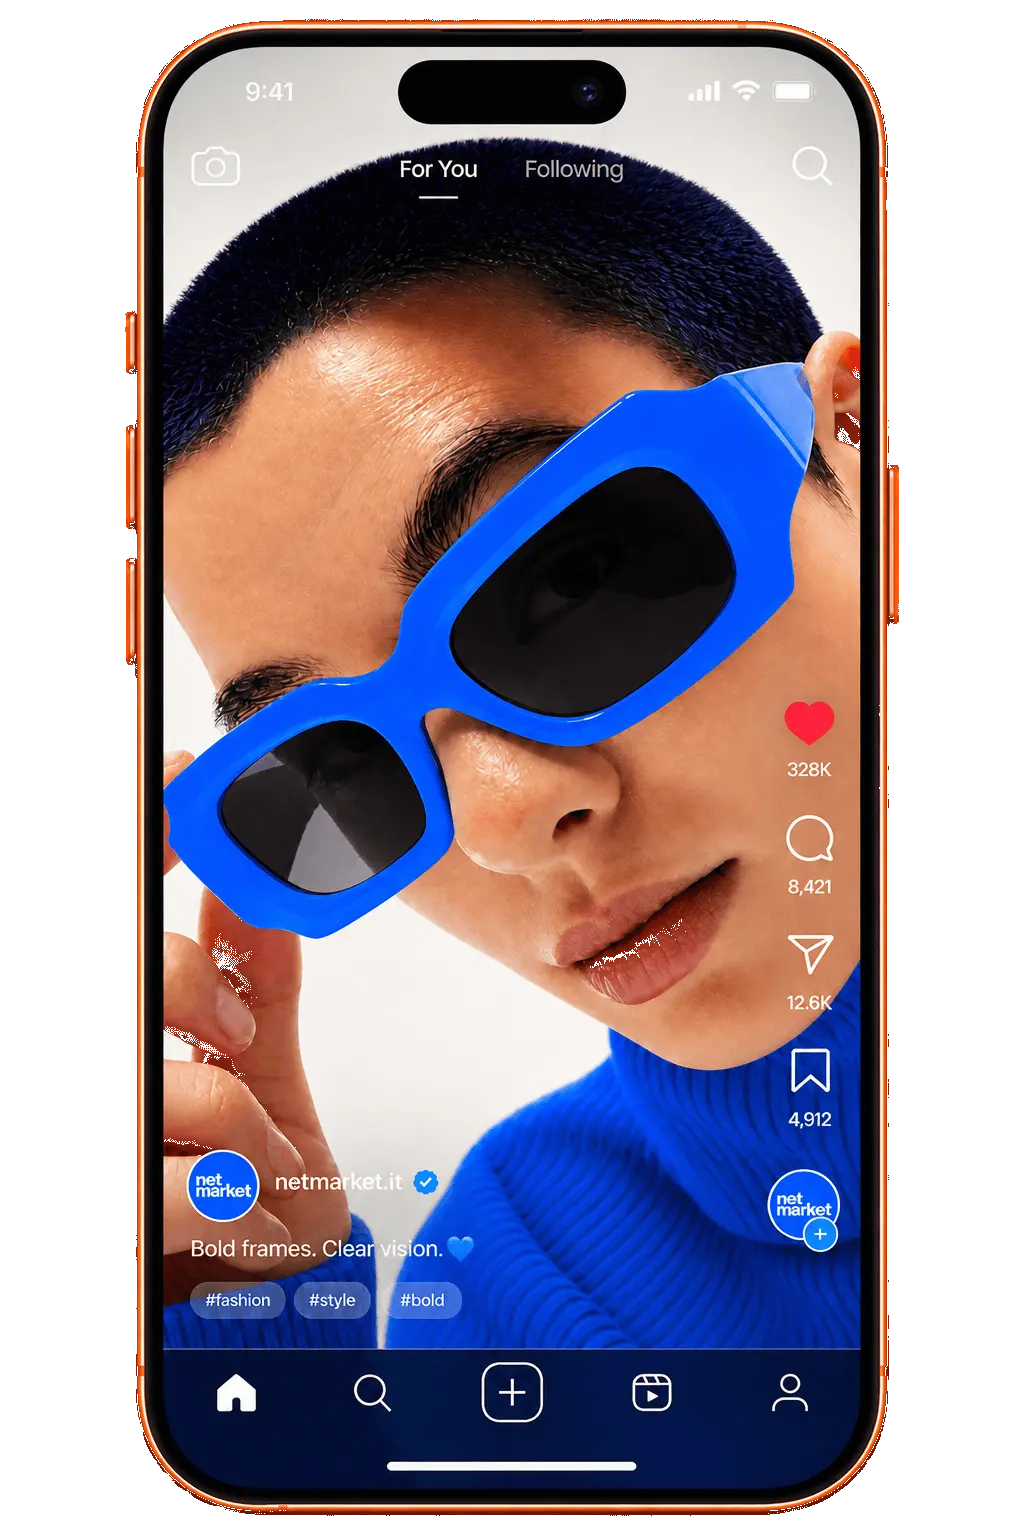
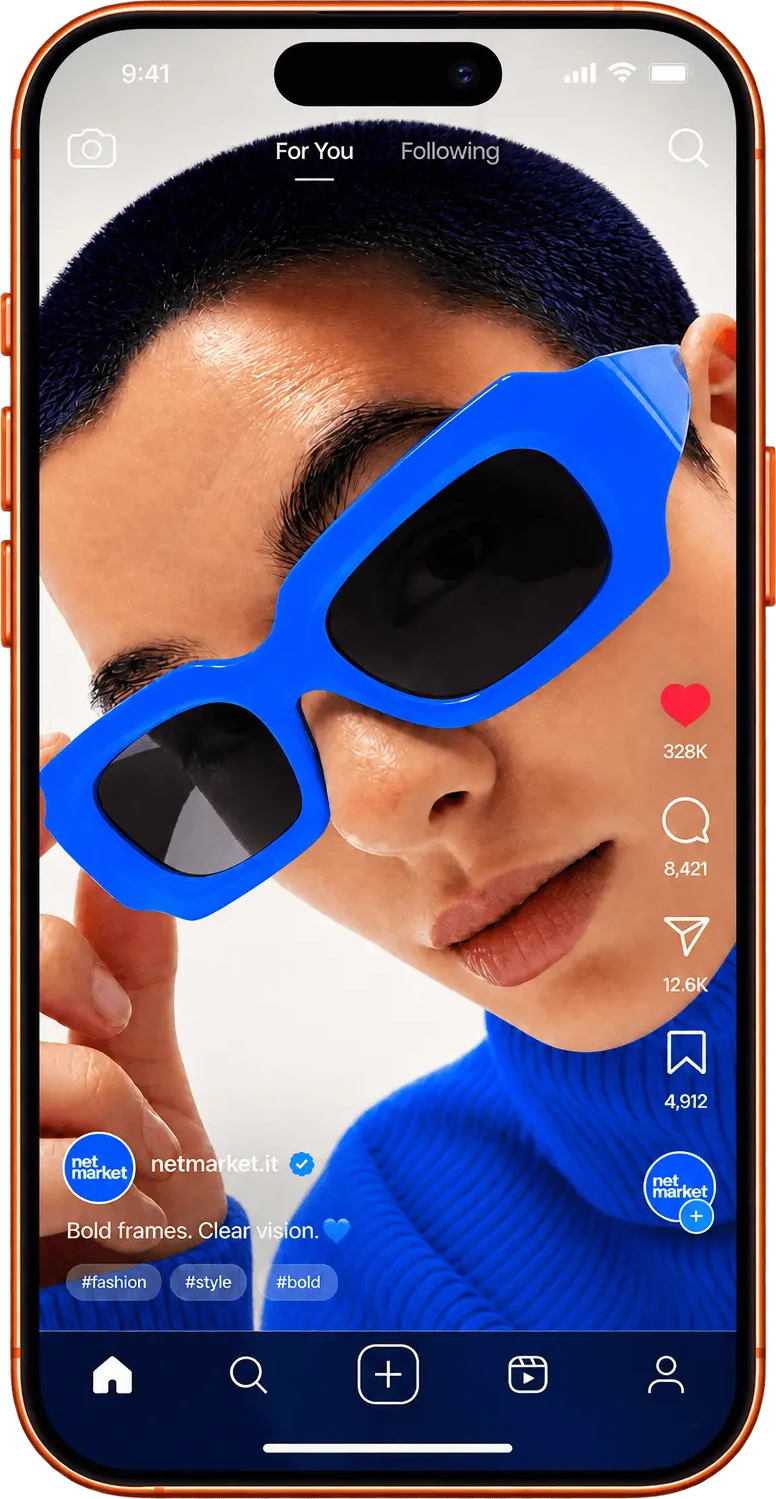
Fix homepage hero media rendering

diff --git a/apps/web/src/styles/global.css b/apps/web/src/styles/global.css
@@ -3841,7 +3841,6 @@ main {
   border-radius: 0;
   background: transparent;
   box-shadow: none;
-  rotate: 1deg;
 }
 
 .home-hero__social-preview img {
@@ -3865,7 +3864,7 @@ main {
 .home-hero__social-preview[data-reveal].is-visible,
 .home-hero__social-preview[data-reveal][data-motion-state='revealed'] {
   clip-path: none;
-  transform: rotate(1deg);
+  transform: none;
 }
 
 .home-hero__rating {
